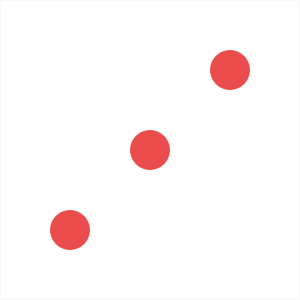
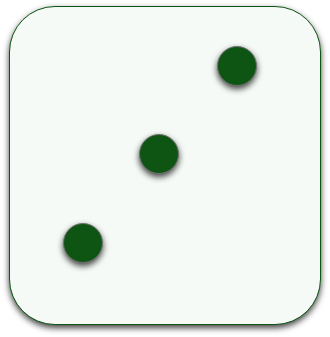
added new dice and new game rules

diff --git a/app.js b/app.js
@@ -1,93 +1,131 @@
 /*
-GAME RULES:
+YOUR 3 CHALLENGES
+Change the game to follow these rules:
 
-- The game has 2 players, playing in rounds
-- In each turn, a player rolls a dice as many times as he whishes. Each result get added to his ROUND score
-- BUT, if the player rolls a 1, all his ROUND score gets lost. After that, it's the next player's turn
-- The player can choose to 'Hold', which means that his ROUND score gets added to his GLBAL score. After that, it's the next player's turn
-- The first player to reach 100 points on GLOBAL score wins the game
-
+1. A player looses his ENTIRE score when he rolls two 6 in a row. After that, it's the next player's turn. (Hint: Always save the previous dice roll in a separate variable)
+2. Add an input field to the HTML where players can set the winning score, so that they can change the predefined score of 100. (Hint: you can read that value with the .value property in JavaScript. This is a good oportunity to use google to figure this out :)
+3. Add another dice to the game, so that there are two dices now. The player looses his current score when one of them is a 1. (Hint: you will need CSS to position the second dice, so take a look at the CSS code for the first one.)
 */
 
 var scores, roundScore, activePlayer, gamePlaying;
 
 init();
 
+var lastDice;
+
 document.querySelector('.btn-roll').addEventListener('click', function () {
     if (gamePlaying) {
         // 1. Random number
-        var dice = Math.floor(Math.random() * 6) + 1;
+        var dice1 = Math.floor(Math.random() * 6) + 1;
+        var dice2 = Math.floor(Math.random() * 6) + 1;
 
-        // 2. Display the result
-        var diceDOM = document.querySelector('.dice');
-        diceDOM.style.display = 'block';
-        diceDOM.src = 'dice-' + dice + '.png';
+        //2. Display the result
+        document.getElementById('dice-1').style.display = 'block';
+        document.getElementById('dice-2').style.display = 'block';
+        document.getElementById('dice-1').src = 'dice-' + dice1 + '.png';
+        document.getElementById('dice-2').src = 'dice-' + dice2 + '.png';
 
-        // 3. Update the round score IF the rolled number was NOT a 1
-        if (dice !== 1) {
-            // Add score
-            roundScore += dice; // roundScore = roundScore + dice;
+        //3. Update the round score IF the rolled number was NOT a 1
+        if (dice1 !== 1 && dice2 !== 1) {
+            //Add score
+            roundScore += dice1 + dice2;
             document.querySelector('#current-' + activePlayer).textContent = roundScore;
         } else {
-            // Next player
+            //Next player
             nextPlayer();
-
-            // document.querySelector('.dice').style.display = 'none';
         }
+
+        /*
+        if (dice === 6 && lastDice === 6) {
+            //Player looses score
+            scores[activePlayer] = 0;
+            document.querySelector('#score-' + activePlayer).textContent = '0';
+            nextPlayer();
+        } else if (dice !== 1) {
+            //Add score
+            roundScore += dice;
+            document.querySelector('#current-' + activePlayer).textContent = roundScore;
+        } else {
+            //Next player
+            nextPlayer();
+        }
+        lastDice = dice;
+        */
     }
 });
 
 document.querySelector('.btn-hold').addEventListener('click', function () {
     if (gamePlaying) {
-        // Add current score to global score
-        scores[activePlayer] += roundScore; // scores[activePlayer = scores[activePlayer] + roundscore
+        // Add CURRENT score to GLOBAL score
+        scores[activePlayer] += roundScore;
 
-        // update the UI
+        // Update the UI
         document.querySelector('#score-' + activePlayer).textContent = scores[activePlayer];
 
-        // Check which player wins
-        if (scores[activePlayer] >= 20) {
-            document.querySelector('#name-' + activePlayer).textContent = 'WINNER!!!';
+        var input = document.querySelector('.final-score').value;
+        var winningScore;
+
+        // Undefined, 0, null or "" are COERCED to false
+        // Anything else is COERCED to true
+        if (input) {
+            winningScore = input;
+        } else {
+            winningScore = 100;
+        }
+
+        // Check if player won the game
+        if (scores[activePlayer] >= winningScore) {
+            document.querySelector('#name-' + activePlayer).textContent = 'Winner!';
+            document.getElementById('dice-1').style.display = 'none';
+            document.getElementById('dice-2').style.display = 'none';
             document.querySelector('.player-' + activePlayer + '-panel').classList.add('winner');
             document.querySelector('.player-' + activePlayer + '-panel').classList.remove('active');
-            document.querySelector('.btn-roll').style.display = 'none';
             gamePlaying = false;
         } else {
-            // next player
+            //Next player
             nextPlayer();
         }
     }
 });
 
 function nextPlayer() {
-    // next player
-    document.querySelector('#current-' + activePlayer).textContent = '0';
-
+    //Next player
     activePlayer === 0 ? (activePlayer = 1) : (activePlayer = 0);
     roundScore = 0;
 
+    document.getElementById('current-0').textContent = '0';
+    document.getElementById('current-1').textContent = '0';
+
     document.querySelector('.player-0-panel').classList.toggle('active');
     document.querySelector('.player-1-panel').classList.toggle('active');
+
+    //document.querySelector('.player-0-panel').classList.remove('active');
+    //document.querySelector('.player-1-panel').classList.add('active');
+
+    document.getElementById('dice-1').style.display = 'none';
+    document.getElementById('dice-2').style.display = 'none';
 }
 
 document.querySelector('.btn-new').addEventListener('click', init);
 
 function init() {
     scores = [0, 0];
-    roundScore = 0;
     activePlayer = 0;
+    roundScore = 0;
     gamePlaying = true;
 
-    document.querySelector('.dice').style.display = 'none';
+    document.getElementById('dice-1').style.display = 'none';
+    document.getElementById('dice-2').style.display = 'none';
 
     document.getElementById('score-0').textContent = '0';
     document.getElementById('score-1').textContent = '0';
     document.getElementById('current-0').textContent = '0';
     document.getElementById('current-1').textContent = '0';
-    document.querySelector('.btn-roll').style.display = 'block';
-    document.querySelector('#name-0').textContent = 'player 0';
-    document.querySelector('#name-1').textContent = 'player 1';
+    document.getElementById('name-0').textContent = 'Player 1';
+    document.getElementById('name-1').textContent = 'Player 2';
     document.querySelector('.player-0-panel').classList.remove('winner');
     document.querySelector('.player-1-panel').classList.remove('winner');
+    document.querySelector('.player-0-panel').classList.remove('active');
+    document.querySelector('.player-1-panel').classList.remove('active');
     document.querySelector('.player-0-panel').classList.add('active');
 }

diff --git a/style.css b/style.css
@@ -15,7 +15,7 @@
 }
 
 body {
-    background-image: linear-gradient(rgba(62, 20, 20, 0.4), rgba(62, 20, 20, 0.4)), url(back.jpg);
+    background-image: linear-gradient(rgba(102, 224, 75, 0.4), rgba(20, 62, 31, 0.4)), url(back.jpg);
     background-size: cover;
     background-position: center;
     font-family: Lato;
@@ -63,7 +63,7 @@ body {
     text-align: center;
     font-size: 80px;
     font-weight: 100;
-    color: #eb4d4d;
+    color: #0e5514;
     margin-bottom: 130px;
 }
 
@@ -78,13 +78,13 @@ body {
     content: '\2022';
     font-size: 47px;
     position: absolute;
-    color: #eb4d4d;
+    color: #f00606;
     top: -7px;
     right: 10px;
 }
 
 .player-current-box {
-    background-color: #eb4d4d;
+    background-color: #138a1dd7;
     color: #fff;
     width: 40%;
     margin: 0 auto;
@@ -131,7 +131,7 @@ button:focus {
 }
 
 i {
-    color: #eb4d4d;
+    color: #0e5514;
     display: inline-block;
     margin-right: 15px;
     font-size: 32px;
@@ -139,6 +139,15 @@ i {
     vertical-align: text-top;
     margin-top: -4px;
     transition: margin 0.3s;
+}
+
+.setscore {
+    text-align: center;
+    position: absolute;
+    width: 200px;
+    left: 40%;
+
+    top: 320px;
 }
 
 .btn-new {
@@ -151,19 +160,43 @@ i {
     top: 467px;
 }
 
-.dice {
-    position: absolute;
-    left: 50%;
-    top: 178px;
-    transform: translateX(-50%);
-    height: 100px;
-    box-shadow: 0px 10px 60px rgba(0, 0, 0, 0.1);
-}
-
 .winner {
     background-color: #f7f7f7;
 }
 .winner .player-name {
     font-weight: 300;
-    color: #eb4d4d;
+    color: #f00606;
+}
+
+/* CHALLENGE */
+.final-score {
+    position: absolute;
+    left: 50%;
+    transform: translateX(-50%);
+    top: 520px;
+    color: #555;
+    font-size: 18px;
+    font-family: 'Lato';
+    text-align: center;
+    padding: 10px;
+    width: 160px;
+    text-transform: uppercase;
+}
+
+.final-score:focus {
+    outline: none;
+}
+.dice {
+    position: absolute;
+    left: 50%;
+    top: 90px;
+    transform: translateX(-50%);
+    height: 100px;
+    box-shadow: 0px 10px 60px rgba(0, 0, 0, 0.1);
+}
+#dice-1 {
+    top: 120px;
+}
+#dice-2 {
+    top: 250px;
 }

diff --git a/index.html b/index.html
@@ -1,12 +1,16 @@
 <!DOCTYPE html>
 <html lang="en">
     <head>
-        <meta charset="UTF-8">
-        <link href="https://fonts.googleapis.com/css?family=Lato:100,300,600" rel="stylesheet" type="text/css">
-        <link href="http://code.ionicframework.com/ionicons/2.0.1/css/ionicons.min.css" rel="stylesheet" type="text/css">
-        <link type="text/css" rel="stylesheet" href="style.css">
-        
-        <title>Pig Game</title>
+        <meta charset="UTF-8" />
+        <link href="https://fonts.googleapis.com/css?family=Lato:100,300,600" rel="stylesheet" type="text/css" />
+        <link
+            href="http://code.ionicframework.com/ionicons/2.0.1/css/ionicons.min.css"
+            rel="stylesheet"
+            type="text/css"
+        />
+        <link type="text/css" rel="stylesheet" href="style.css" />
+
+        <title>Pig Game Nigerian Theme</title>
     </head>
 
     <body>
@@ -19,7 +23,7 @@
                     <div class="player-current-score" id="current-0">11</div>
                 </div>
             </div>
-            
+
             <div class="player-1-panel">
                 <div class="player-name" id="name-1">Player 2</div>
                 <div class="player-score" id="score-1">72</div>
@@ -28,14 +32,17 @@
                     <div class="player-current-score" id="current-1">0</div>
                 </div>
             </div>
-            
+
             <button class="btn-new"><i class="ion-ios-plus-outline"></i>New game</button>
+
             <button class="btn-roll"><i class="ion-ios-loop"></i>Roll dice</button>
             <button class="btn-hold"><i class="ion-ios-download-outline"></i>Hold</button>
-            
-            <img src="dice-5.png" alt="Dice" class="dice">
+
+            <input type="text" placeholder="Final score" class="final-score" />
+            <img src="dice-5.png" alt="Dice1" class="dice" id="dice-1" />
+            <img src="dice-5.png" alt="Dice2" class="dice" id="dice-2" />
         </div>
-        
+
         <script src="app.js"></script>
     </body>
 </html>
